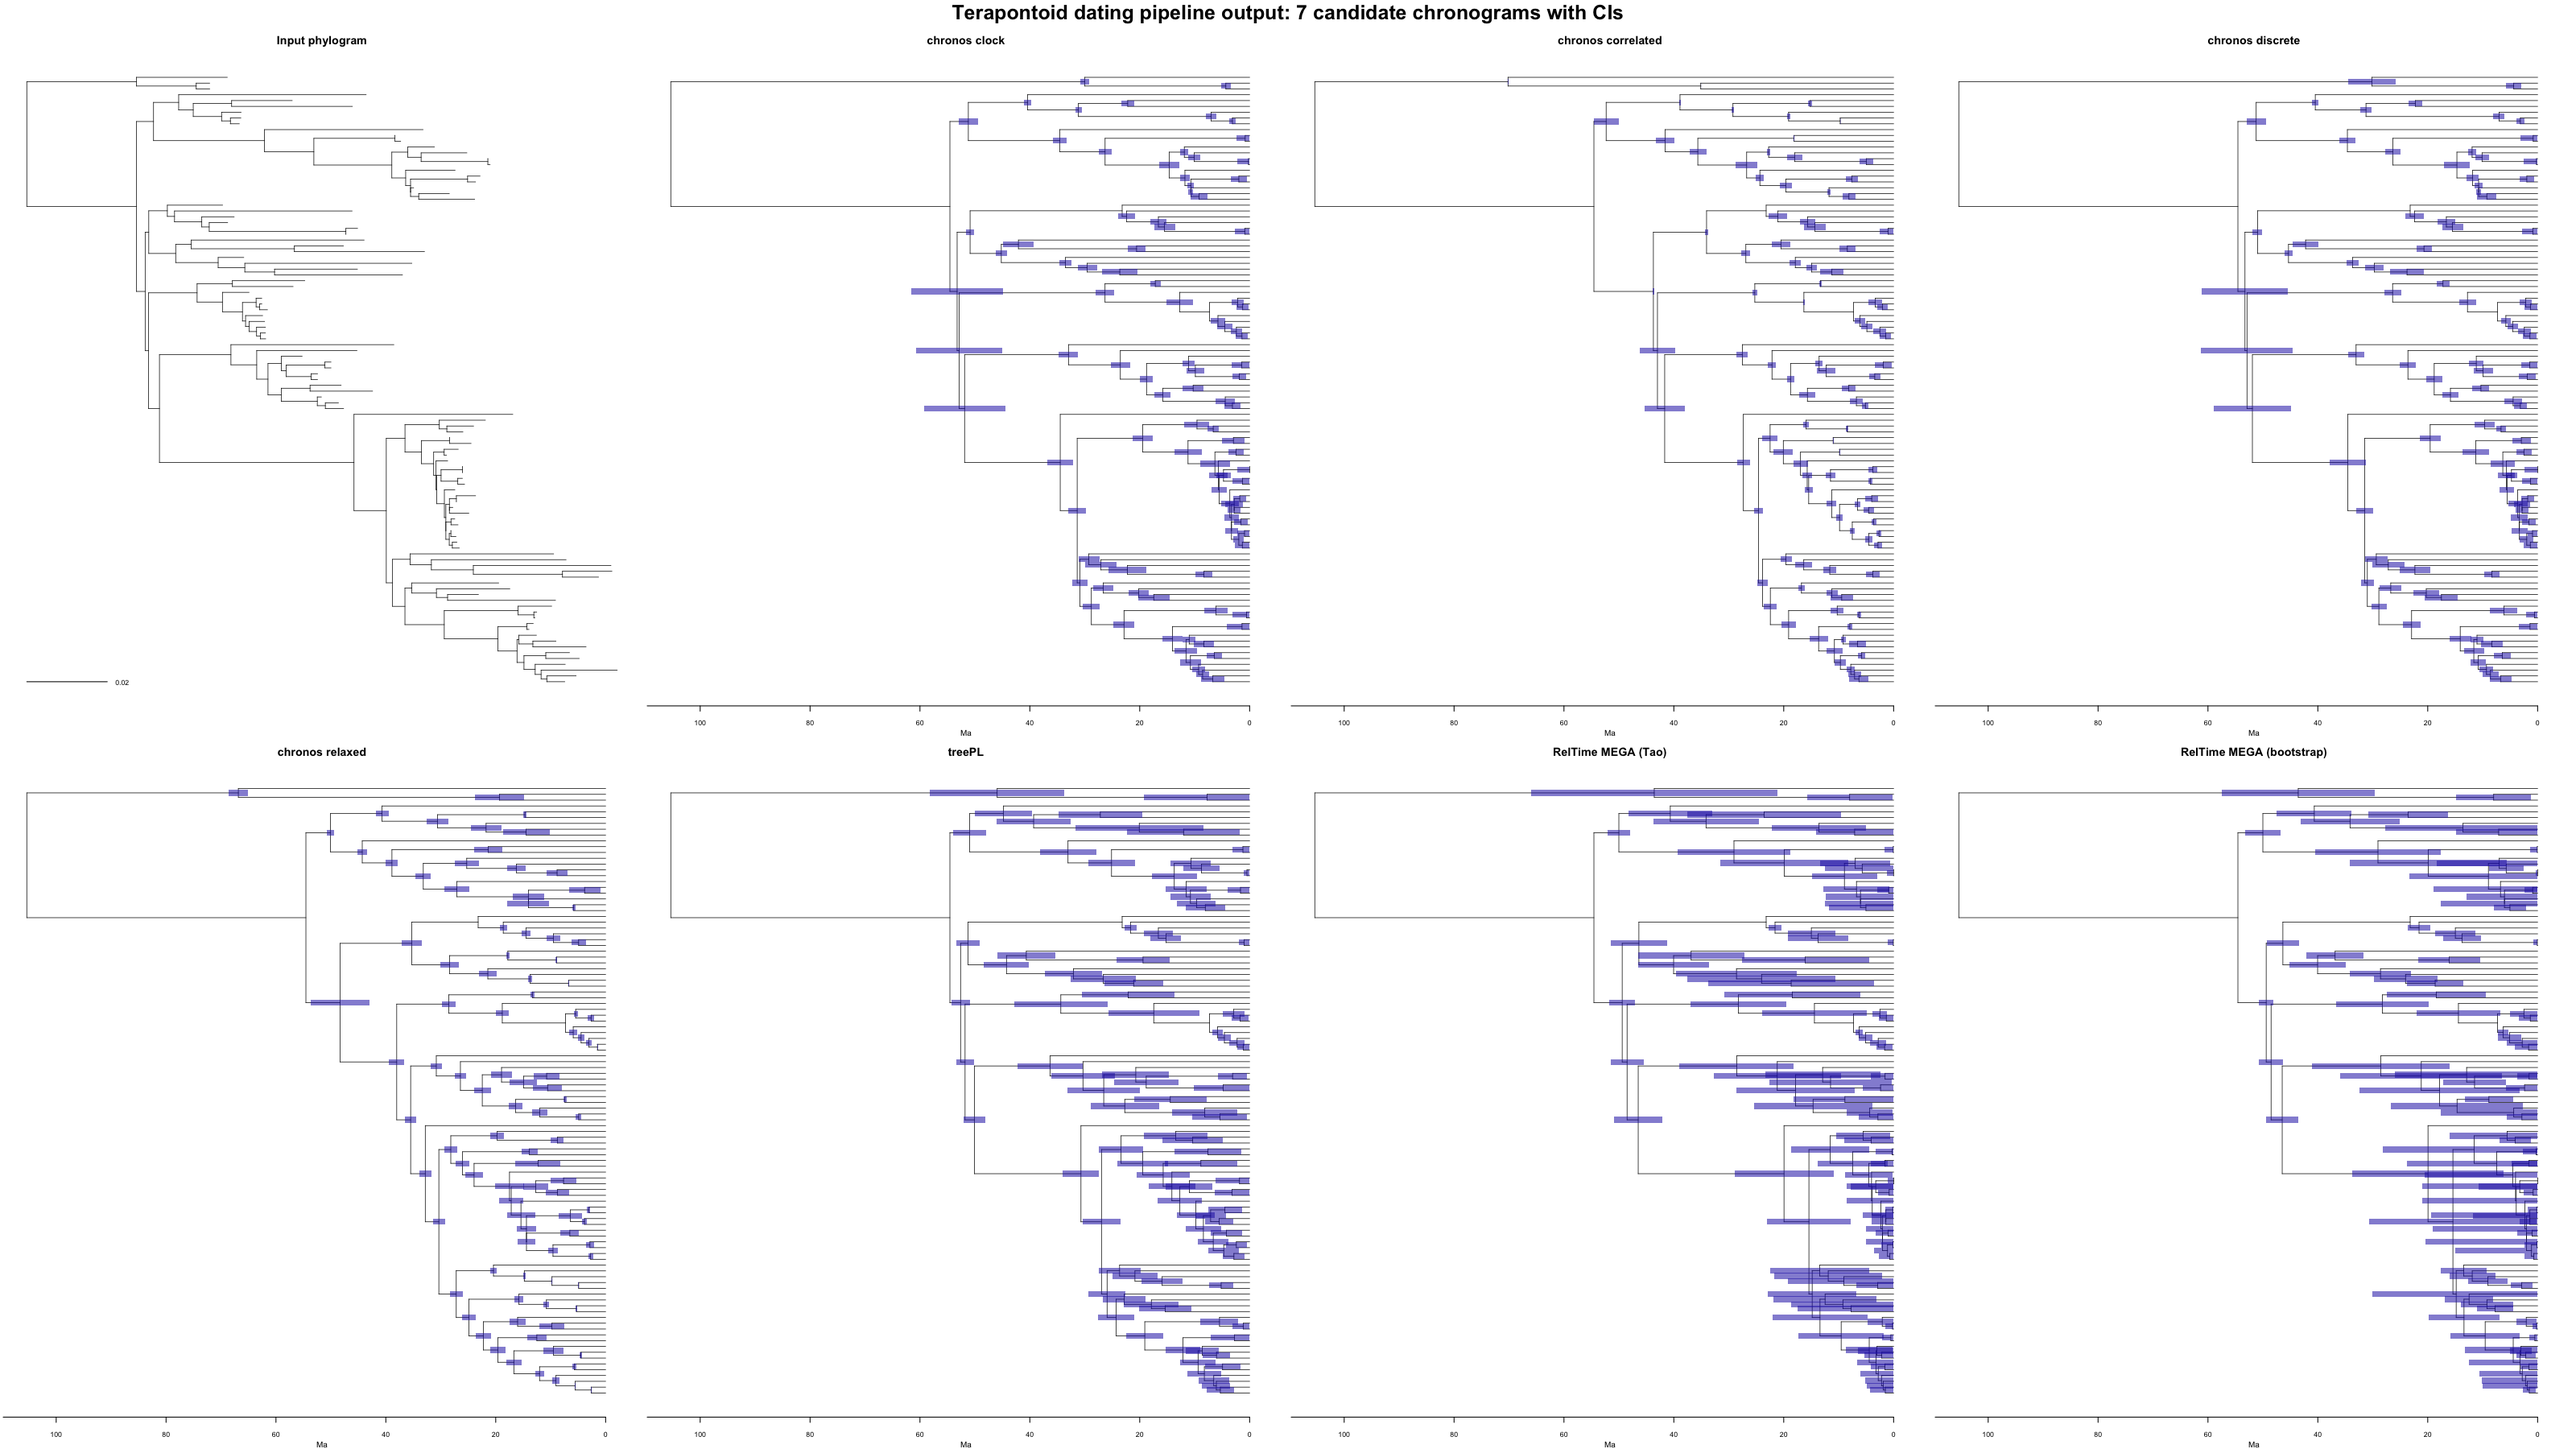
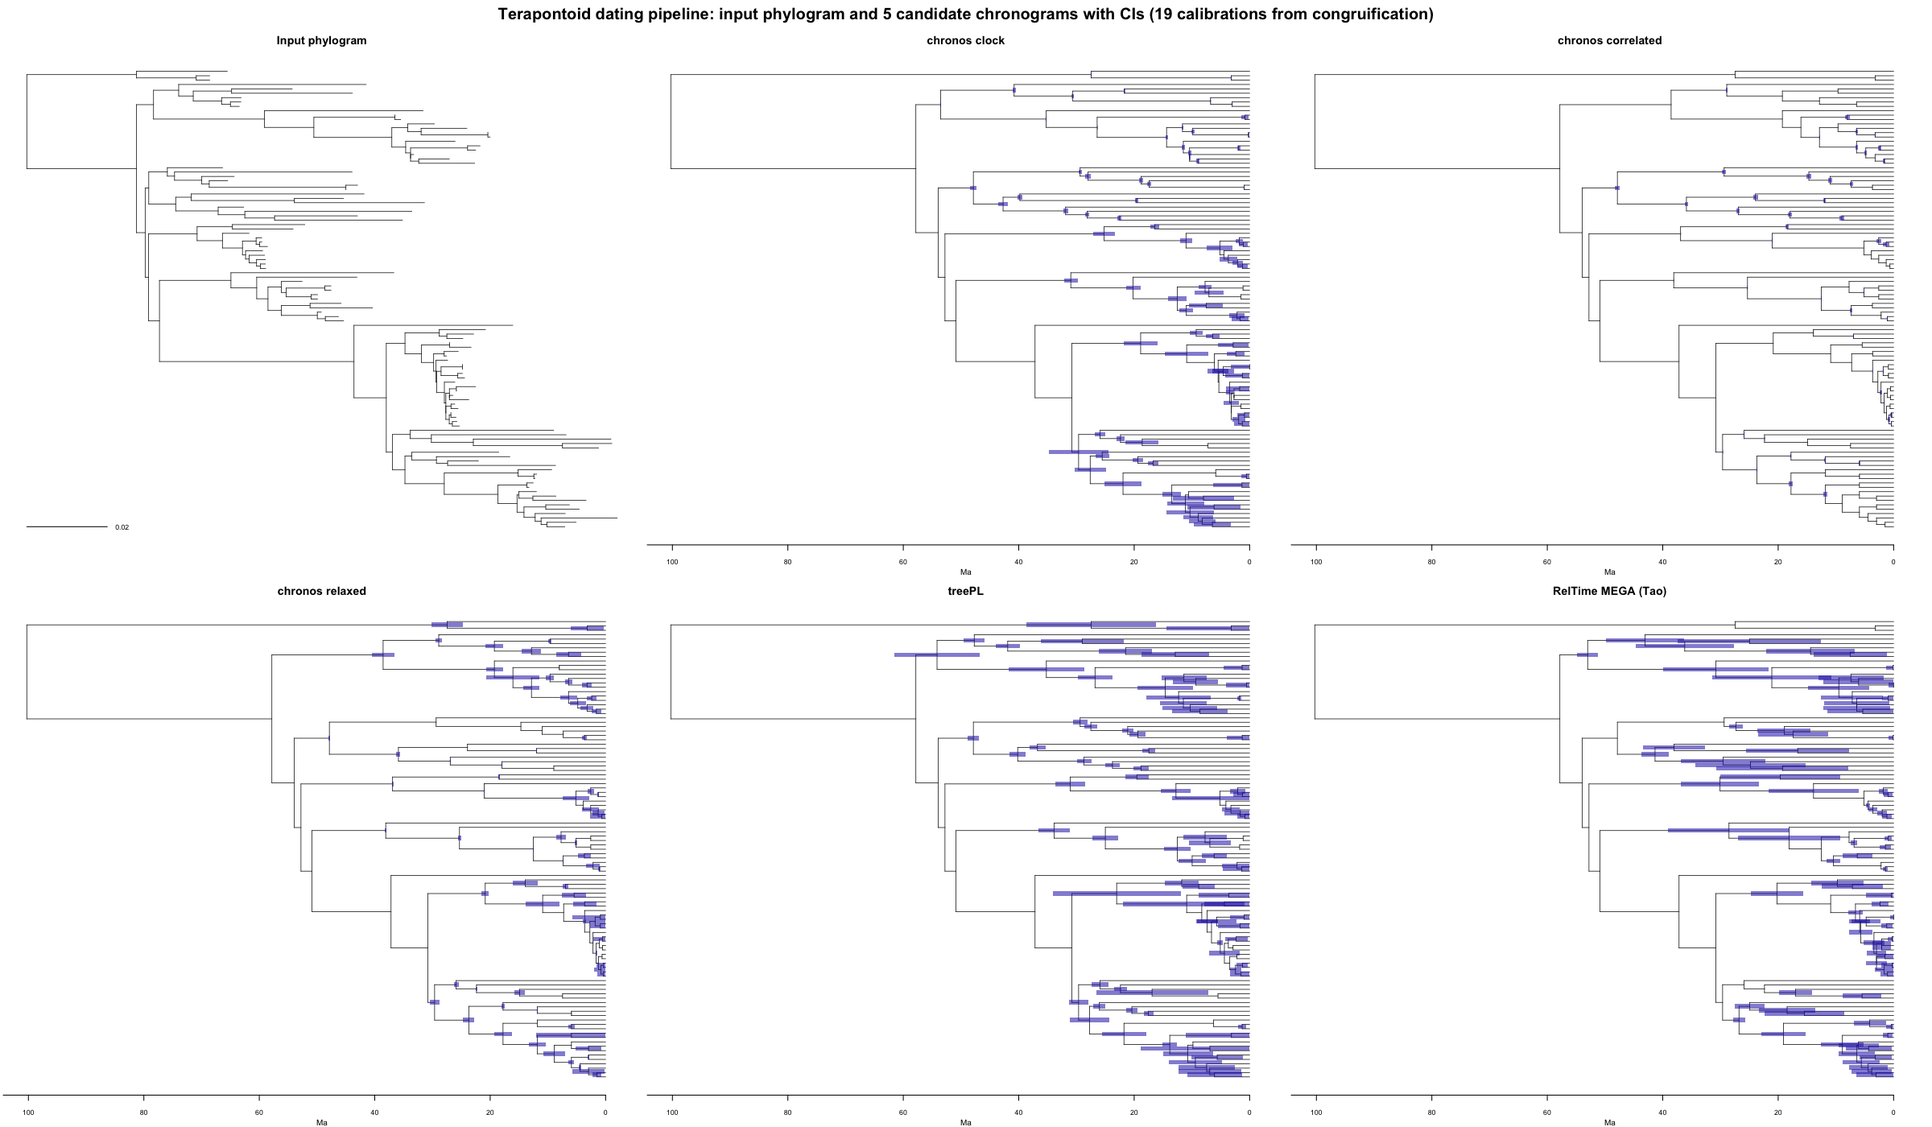
Rerun terapontoid with 19 calibrations from congruification
- Add ref_timetree.tre (23-tip Eupercaria chronogram) for congruification
- Add phylogram.tre (105-tip target tree)
- Pipeline now produces 5 candidates (discrete fails with 19 fixed-point cals)
- Update figure: 19 cals, CIs on all trees
- All chronos CIs + treePL CIs + MEGA Tao CIs verified

diff --git a/1_PCR_CUSTOM_DATING_PIPELINE_FROM_PHYLOGRAMS/README.md b/1_PCR_CUSTOM_DATING_PIPELINE_FROM_PHYLOGRAMS/README.md
@@ -28,7 +28,7 @@ The `chronos` side is kept as four separate trees, one per clock model, rather t
 
 The pipeline also reports upstream `chronos` fit statistics. Those are useful, but they should not be treated as the final decision rule by themselves: our simulations suggest that `PHIIC` does not always recover the true generating clock model reliably. Across both simulations and the bundled empirical examples, `chronos_clock` and `chronos_discrete` are often the strongest `chronos` performers, whereas `chronos_correlated` and `chronos_relaxed` tend to perform worse, including on the downstream post-fit biological metrics. One notable pattern is that `chronos_clock` is often the top-performing tree among all six candidates, even under fairly high heterotachy. That broad pattern is consistent with [Paradis 2013](https://doi.org/10.1016/j.ympev.2013.02.008), which reported good strict-clock estimates even under heterogeneous substitution rates, and with [Paradis et al. 2023](https://doi.org/10.1016/j.ympev.2022.107652), which suggested that the strict clock can remain competitive in part because it simplifies optimization by estimating a single rate rather than a branch-specific rate process.
 
-**Example output (terapontoid dataset, 105 tips, 6 calibrations):**
+**Example output (terapontoid dataset, 105 tips, 19 calibrations from congruification):**
 
 <img src="https://raw.githubusercontent.com/betanri/PhyloChronoRank/main/figures/terapontoid_pipeline_output.png" alt="Terapontoid pipeline output" width="100%">
 
